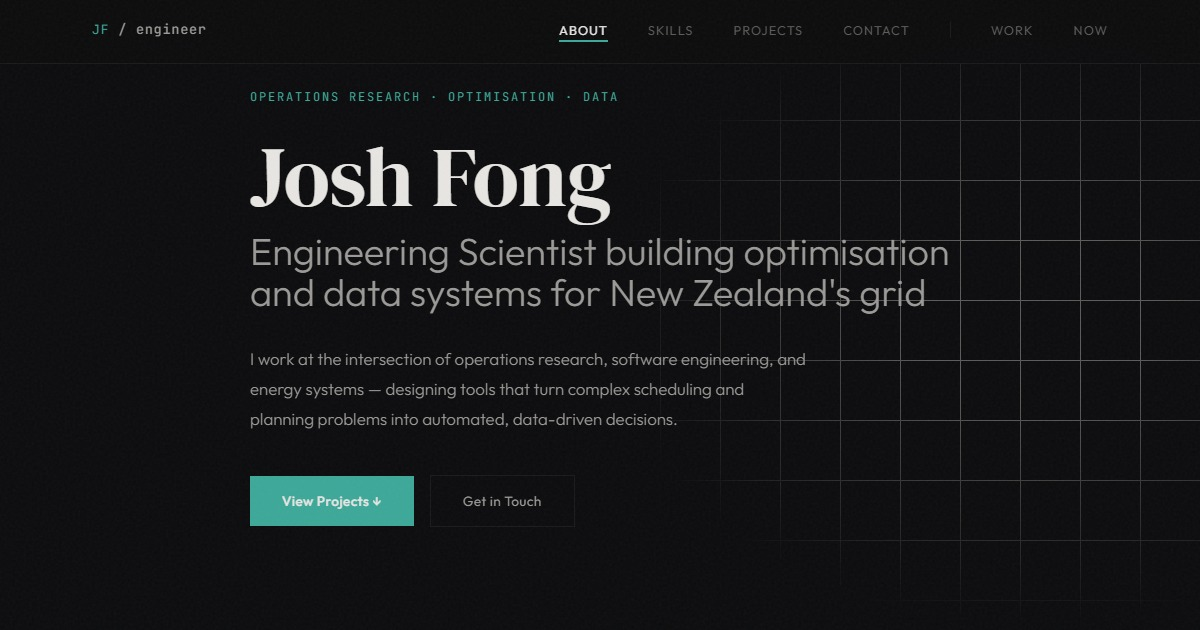
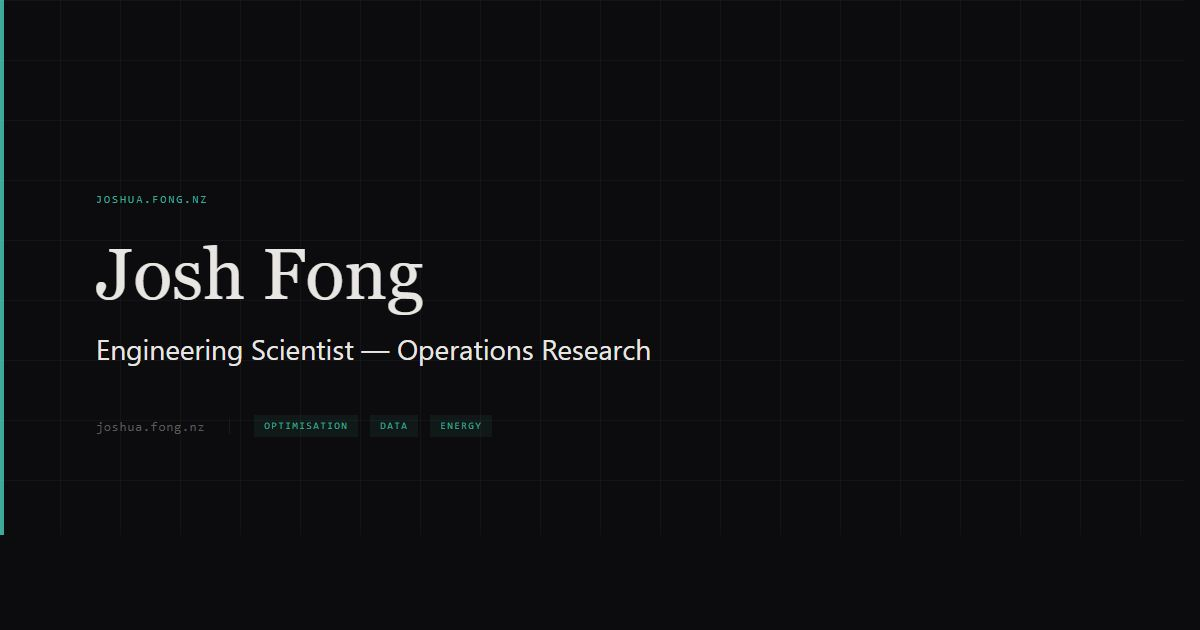
update

diff --git a/preview-card/index.html b/preview-card/index.html
@@ -1,0 +1,140 @@
+<!DOCTYPE html>
+<html lang="en">
+<head>
+  <meta charset="UTF-8">
+  <meta name="viewport" content="width=1200">
+  <title>Preview Card</title>
+  <link rel="preconnect" href="https://fonts.googleapis.com">
+  <link rel="preconnect" href="https://fonts.gstatic.com" crossorigin>
+  <link href="https://fonts.googleapis.com/css2?family=DM+Serif+Display&family=Outfit:wght@300;400&family=JetBrains+Mono:wght@400&display=swap" rel="stylesheet">
+  <style>
+    * { margin: 0; padding: 0; box-sizing: border-box; }
+
+    body {
+      width: 1200px;
+      height: 630px;
+      background: #0C0C0E;
+      font-family: 'Outfit', system-ui, sans-serif;
+      overflow: hidden;
+      position: relative;
+    }
+
+    /* Grid overlay */
+    .grid {
+      position: absolute;
+      inset: 0;
+      background-image:
+        linear-gradient(rgba(255,255,255,0.03) 1px, transparent 1px),
+        linear-gradient(90deg, rgba(255,255,255,0.03) 1px, transparent 1px);
+      background-size: 60px 60px;
+    }
+
+    .content {
+      position: relative;
+      z-index: 1;
+      padding: 72px 96px;
+      height: 100%;
+      display: flex;
+      flex-direction: column;
+      justify-content: center;
+    }
+
+    .label {
+      font-family: 'JetBrains Mono', monospace;
+      font-size: 11px;
+      letter-spacing: 0.18em;
+      color: #3DA899;
+      text-transform: uppercase;
+      margin-bottom: 32px;
+    }
+
+    h1 {
+      font-family: 'DM Serif Display', Georgia, serif;
+      font-weight: 400;
+      font-size: 72px;
+      color: #E8E6E3;
+      line-height: 1;
+      margin-bottom: 20px;
+    }
+
+    .subtitle {
+      font-family: 'Outfit', system-ui, sans-serif;
+      font-weight: 300;
+      font-size: 28px;
+      color: #9B9A97;
+      line-height: 1.35;
+      margin-bottom: 48px;
+      max-width: 900px;
+    }
+
+    .subtitle strong {
+      color: #E8E6E3;
+      font-weight: 400;
+    }
+
+    .meta {
+      display: flex;
+      align-items: center;
+      gap: 24px;
+    }
+
+    .domain {
+      font-family: 'JetBrains Mono', monospace;
+      font-size: 13px;
+      color: #5C5B59;
+      letter-spacing: 0.05em;
+    }
+
+    .divider {
+      width: 1px;
+      height: 16px;
+      background: rgba(255,255,255,0.06);
+    }
+
+    .tags {
+      display: flex;
+      gap: 12px;
+    }
+
+    .tag {
+      font-family: 'JetBrains Mono', monospace;
+      font-size: 10px;
+      letter-spacing: 0.15em;
+      text-transform: uppercase;
+      color: #3DA899;
+      background: rgba(61, 168, 153, 0.08);
+      padding: 5px 10px;
+    }
+
+    /* Accent line */
+    .accent-line {
+      position: absolute;
+      left: 0;
+      top: 0;
+      width: 4px;
+      height: 100%;
+      background: #3DA899;
+    }
+  </style>
+</head>
+<body>
+  <div class="accent-line"></div>
+  <div class="grid"></div>
+  <div class="content">
+    <div class="label">joshua.fong.nz</div>
+    <h1>Josh Fong</h1>
+    <div class="subtitle">
+      <strong>Engineering Scientist — Operations Research</strong>
+    </div>
+    <div class="meta">
+      <span class="domain">joshua.fong.nz</span>
+      <div class="divider"></div>
+      <div class="tags">
+        <span class="tag">Optimisation</span>
+        <span class="tag">Data</span>
+        <span class="tag">Energy</span>
+      </div>
+    </div>
+  </div>
+</body>
+</html>

diff --git a/index.html b/index.html
@@ -8,7 +8,7 @@
   <!-- Open Graph -->
   <meta property="og:title" content="Joshua Fong — Operations Research Engineer" />
   <meta property="og:description" content="Operations Research Engineer specialising in optimisation, scheduling systems, and data analytics for critical infrastructure." />
-  <meta property="og:image" content="https://joshua.fong.nz/images/preview.jpg?v=4" />
+  <meta property="og:image" content="https://joshua.fong.nz/images/preview.jpg?v=5" />
   <meta property="og:url" content="https://joshua.fong.nz/" />
   <meta property="og:type" content="website" />
 
@@ -16,7 +16,7 @@
   <meta name="twitter:card" content="summary_large_image">
   <meta name="twitter:title" content="Joshua Fong — Operations Research Engineer">
   <meta name="twitter:description" content="Optimisation, scheduling systems, and data analytics for critical infrastructure.">
-  <meta name="twitter:image" content="https://joshua.fong.nz/images/preview.jpg?v=4">
+  <meta name="twitter:image" content="https://joshua.fong.nz/images/preview.jpg?v=5">
 
   <link rel="preconnect" href="https://fonts.googleapis.com">
   <link rel="preconnect" href="https://fonts.gstatic.com" crossorigin>
@@ -68,6 +68,7 @@
       font-size: 0.45em;
       display: block;
       margin-top: 0.5rem;
+      text-wrap: balance;
     }
 
     .hero-text {
@@ -389,12 +390,12 @@
         <div class="hero-label">Operations Research · Optimisation · Data</div>
         <h1>
           Josh Fong
-          <span class="thin">Engineering Scientist building optimisation<br>and data systems for New Zealand's grid</span>
+          <span class="thin">Engineering Scientist — Operations Research</span>
         </h1>
         <p class="hero-text">
           I work at the intersection of operations research, software engineering,
-          and energy systems — designing tools that turn complex scheduling and planning
-          problems into automated, data-driven decisions.
+          and energy systems — building optimisation and scheduling systems at Transpower — the state-owned enterprise
+          that operates New Zealand's national electricity grid.
         </p>
         <div class="hero-cta">
           <a href="#projects" class="btn-primary">View Projects ↓</a>
